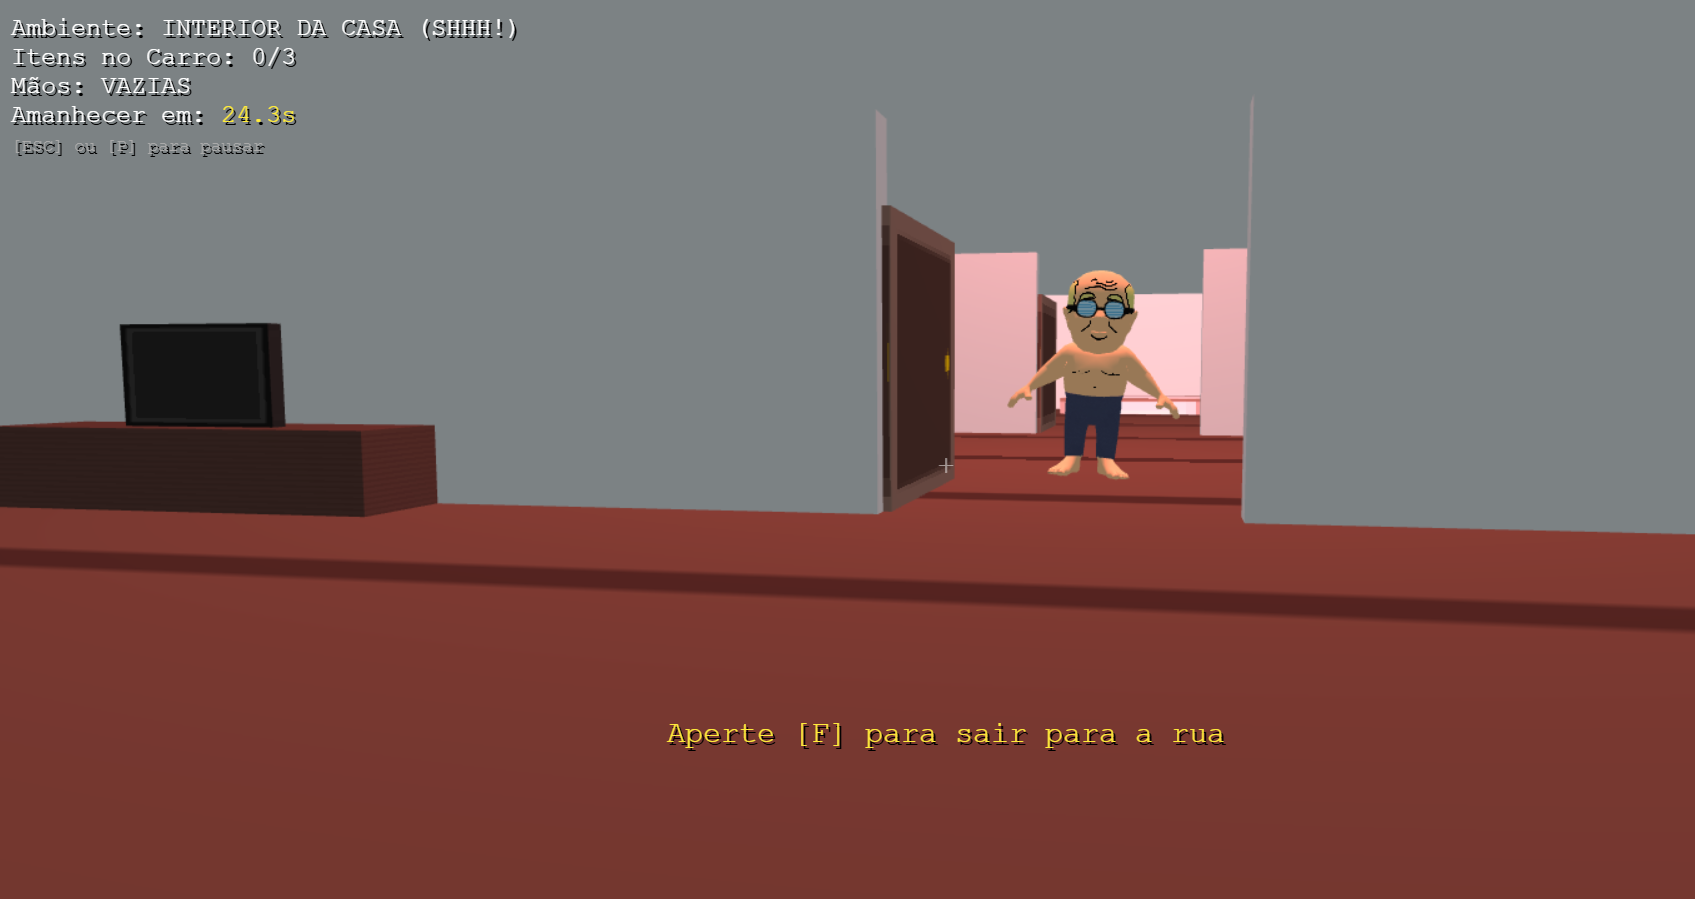
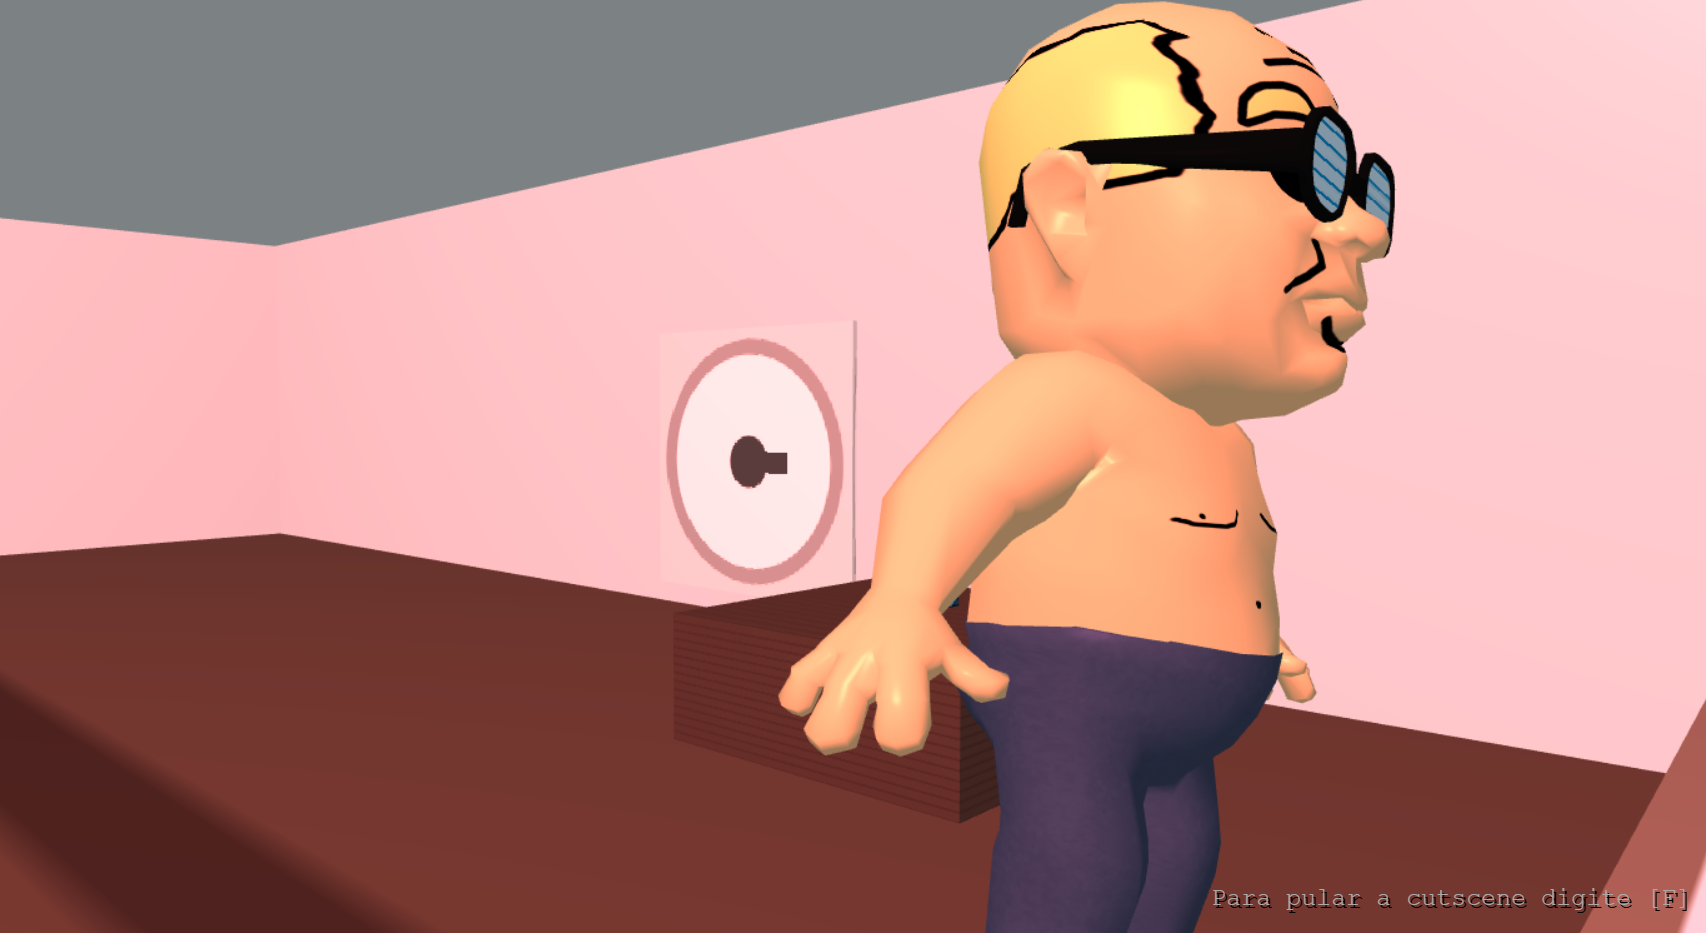
alterada a imagem

diff --git a/README.md b/README.md
@@ -6,7 +6,7 @@
 <p align="center">
   <img src="imagem.png" alt="Herança Roubada" width="800">
   <br>
-  <em>Figura 1 - Gameplay do jogo Herança Roubada</em>
+  <em>Gameplay do jogo Herança Roubada</em>
 </p>
 
 
